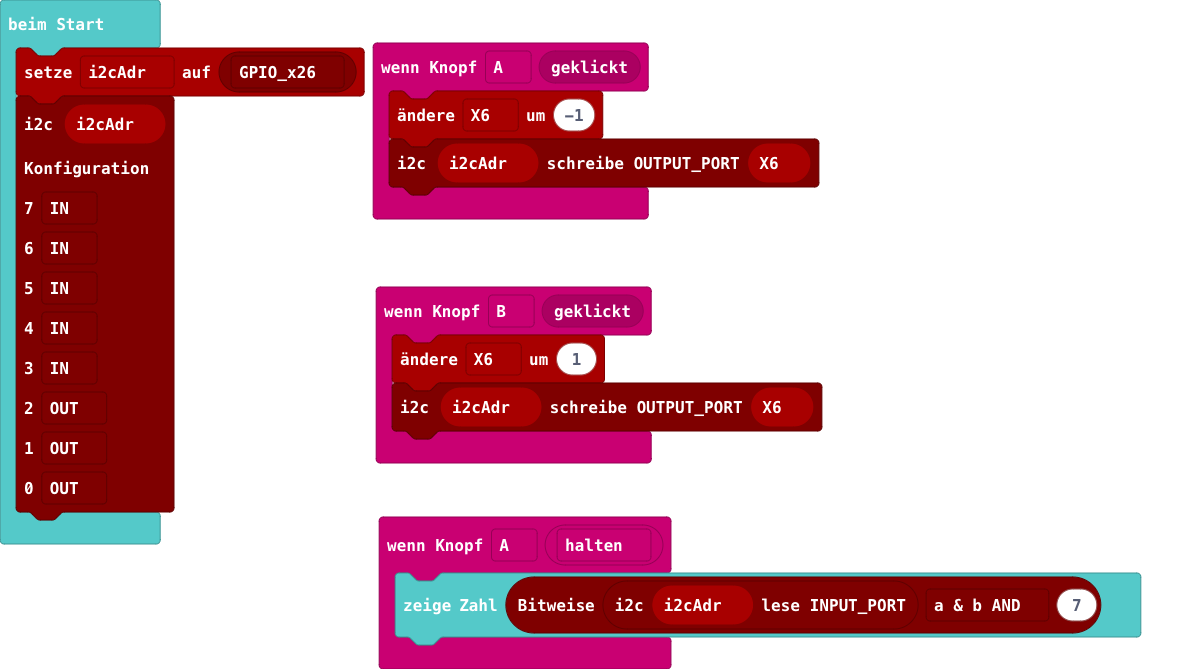
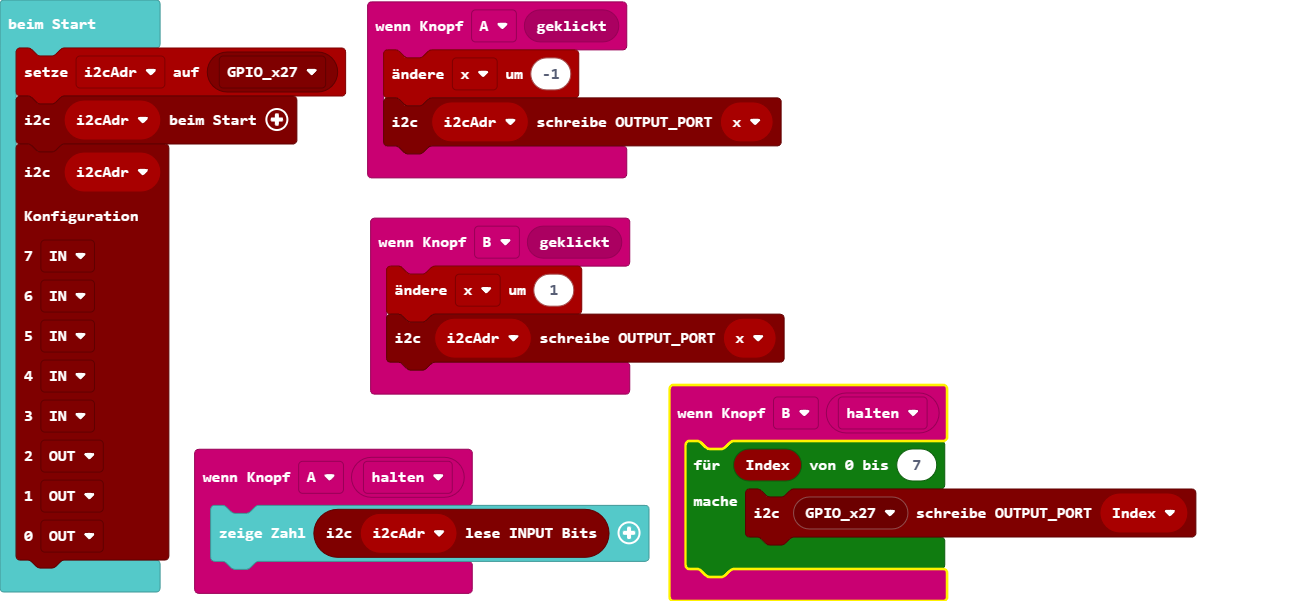
Aktualisiere pxt.json, main.blocks, main.ts

diff --git a/main.ts b/main.ts
@@ -1,17 +1,23 @@
 input.onButtonEvent(Button.A, input.buttonEventClick(), function () {
-    X6 += -1
-    qwiicgpio.writeOUTPUT_PORT(i2cAdr, X6)
+    x += -1
+    qwiicgpio.writeOUTPUT_PORT(i2cAdr, x)
 })
 input.onButtonEvent(Button.B, input.buttonEventClick(), function () {
-    X6 += 1
-    qwiicgpio.writeOUTPUT_PORT(i2cAdr, X6)
+    x += 1
+    qwiicgpio.writeOUTPUT_PORT(i2cAdr, x)
 })
 input.onButtonEvent(Button.A, ButtonEvent.Hold, function () {
-    basic.showNumber(qwiicgpio.bitwise(qwiicgpio.readINPUT_PORT(i2cAdr), qwiicgpio.eBit.AND, 7))
+    basic.showNumber(qwiicgpio.readINPUT_PORT(i2cAdr))
 })
-let X6 = 0
+input.onButtonEvent(Button.B, ButtonEvent.Hold, function () {
+    for (let Index = 0; Index <= 7; Index++) {
+        qwiicgpio.writeOUTPUT_PORT(qwiicgpio.qwiicgpio_eADDR(qwiicgpio.eADDR.GPIO_x27), Index)
+    }
+})
+let x = 0
 let i2cAdr = 0
-i2cAdr = qwiicgpio.qwiicgpio_eADDR(qwiicgpio.eADDR.GPIO_x26)
+i2cAdr = qwiicgpio.qwiicgpio_eADDR(qwiicgpio.eADDR.GPIO_x27)
+qwiicgpio.beimStart(i2cAdr)
 qwiicgpio.setMode(
 i2cAdr,
 qwiicgpio.eIO.IN,
